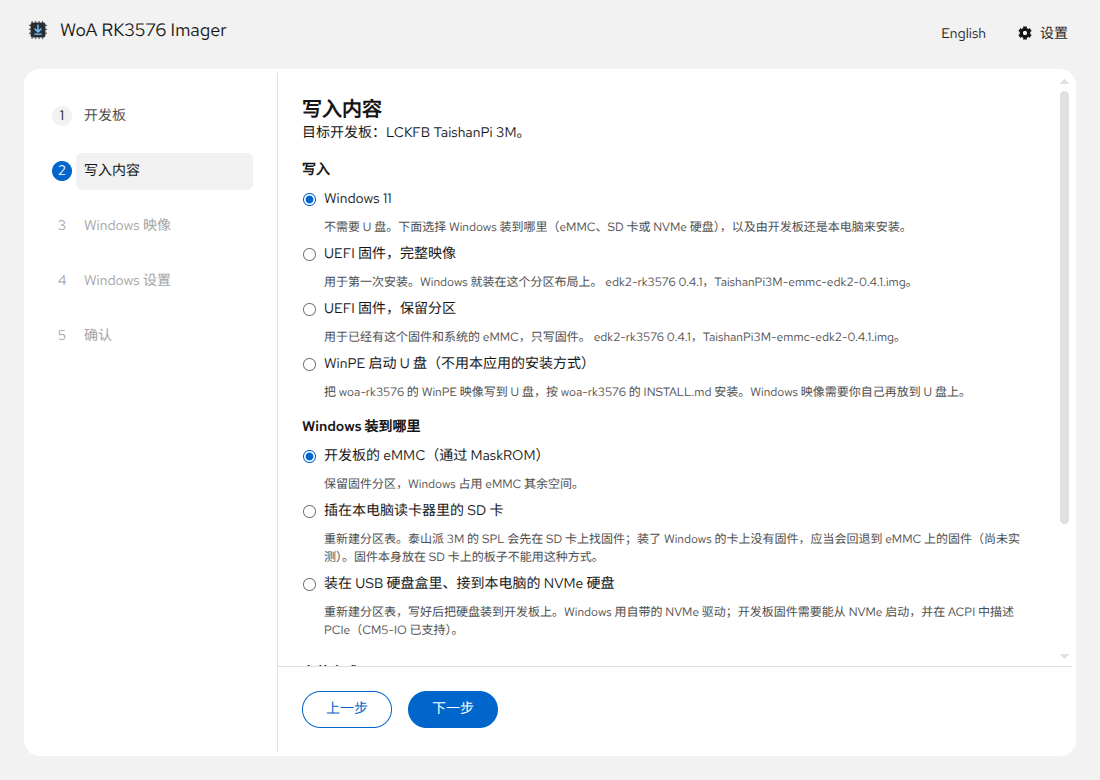
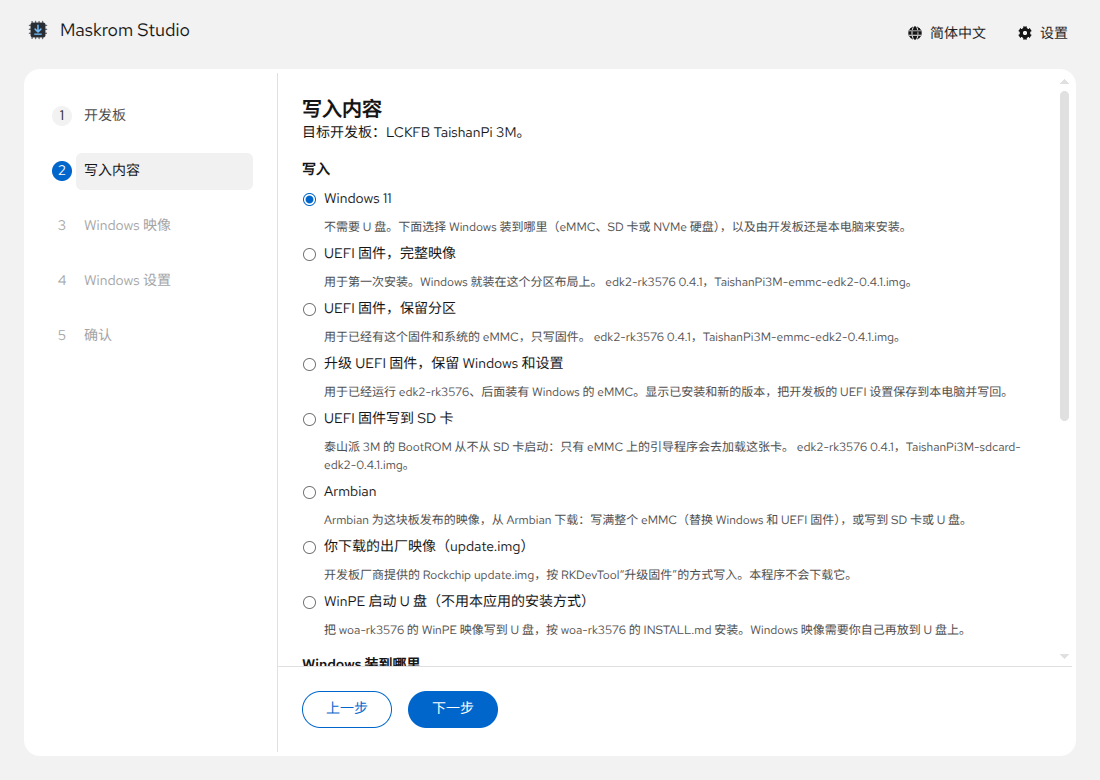
README: screenshots of Maskrom Studio as it is now
What to write (English and zh-CN) with every task, the Review step with
the disk layout, the Windows setup step's disk layout (zh-CN), and the
About dialog; alt texts say what each shows. Taken from main with
scripts/shots.mjs at 1100x780, light.

diff --git a/README.md b/README.md
@@ -21,8 +21,9 @@ Status: first version, not yet run on hardware. See
 [docs/hardware-test.md](docs/hardware-test.md).
 
 <p>
-  <img src="docs/imgs/what-to-write.png" alt="The What to write step: Windows 11, the UEFI firmware as a whole image or keeping the partitions, or a WinPE USB stick, and where Windows goes" width="49%">
-  <img src="docs/imgs/review.png" alt="The Review step: board, Windows build, WinPE release, first start, SSH, drivers, what is erased and written, and how it is checked" width="49%">
+  <img src="docs/imgs/what-to-write.png" alt="The What to write step for the LCKFB TaishanPi 3M: Windows 11, UEFI firmware as a whole image or keeping the partitions, upgrading the UEFI firmware while keeping Windows and the settings, UEFI firmware on an SD card, Armbian, a factory image you downloaded, and the WinPE USB stick" width="49%">
+  <img src="docs/imgs/review.png" alt="The Review step for Windows on the eMMC: board, Windows build, WinPE release, first start, SSH, drivers, where it is installed, the disk layout (firmware kept, EFI system partition, MSR, a 40 GB Windows partition, an exFAT data partition and 8 GB kept for Linux), what is erased and what is written" width="49%">
+  <img src="docs/imgs/about.png" alt="About Maskrom Studio: version, design system, network, what it keeps on the device, images, boards, licence, author, source and what it is based on" width="49%">
 </p>
 
 ## What it does

diff --git a/README.zh-CN.md b/README.zh-CN.md
@@ -11,8 +11,8 @@
 现状：第一个版本，还没有在实际开发板上跑过。测试步骤见 [docs/hardware-test.md](docs/hardware-test.md)（英文）。
 
 <p>
-  <img src="docs/imgs/what-to-write-zh-CN.png" alt="写入内容这一步：Windows 11、UEFI 固件（完整映像或保留分区）、WinPE 启动 U 盘，以及 Windows 装到哪里" width="49%">
-  <img src="docs/imgs/windows-setup-zh-CN.png" alt="Windows 设置这一步：首次启动走设置向导还是跳过，用户名、密码和计算机名" width="49%">
+  <img src="docs/imgs/what-to-write-zh-CN.png" alt="写入内容这一步（立创泰山派 3M）：Windows 11、UEFI 固件（完整映像或保留分区）、保留 Windows 和设置的 UEFI 固件升级、写到 SD 卡的 UEFI 固件、Armbian、自己下载的出厂映像，以及 WinPE 启动 U 盘" width="49%">
+  <img src="docs/imgs/windows-setup-zh-CN.png" alt="Windows 设置这一步的磁盘布局：自己设定 Windows 大小（40 GB），剩下的空间建 exFAT 数据分区，在末尾给 Linux 留 8 GB" width="49%">
 </p>
 
 ## 能做什么
